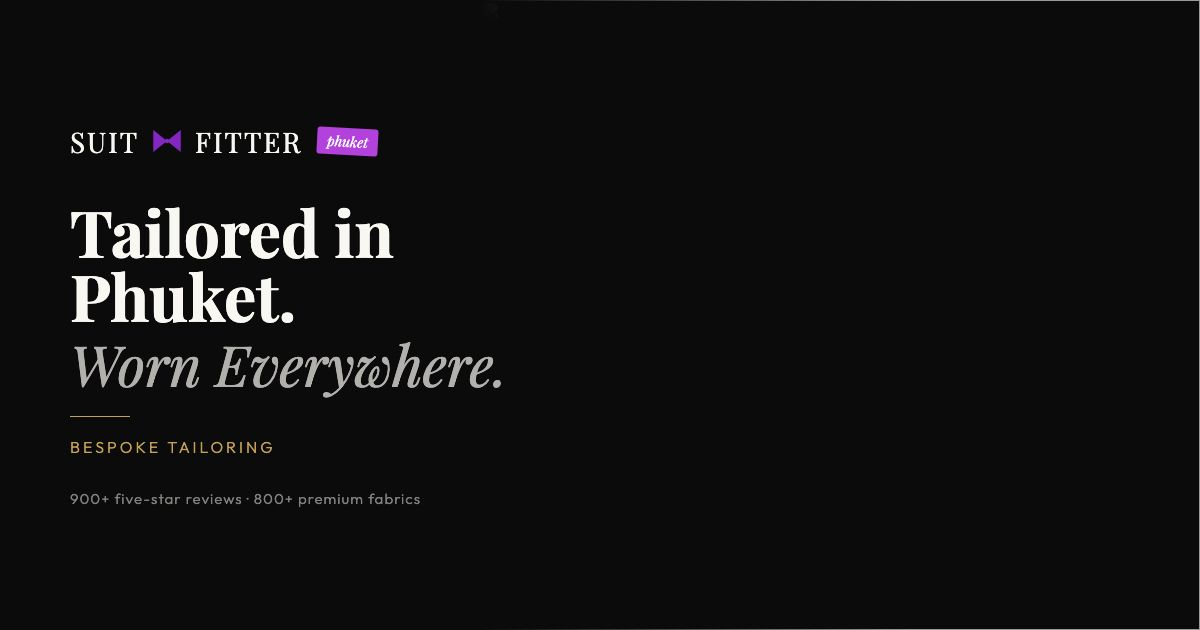
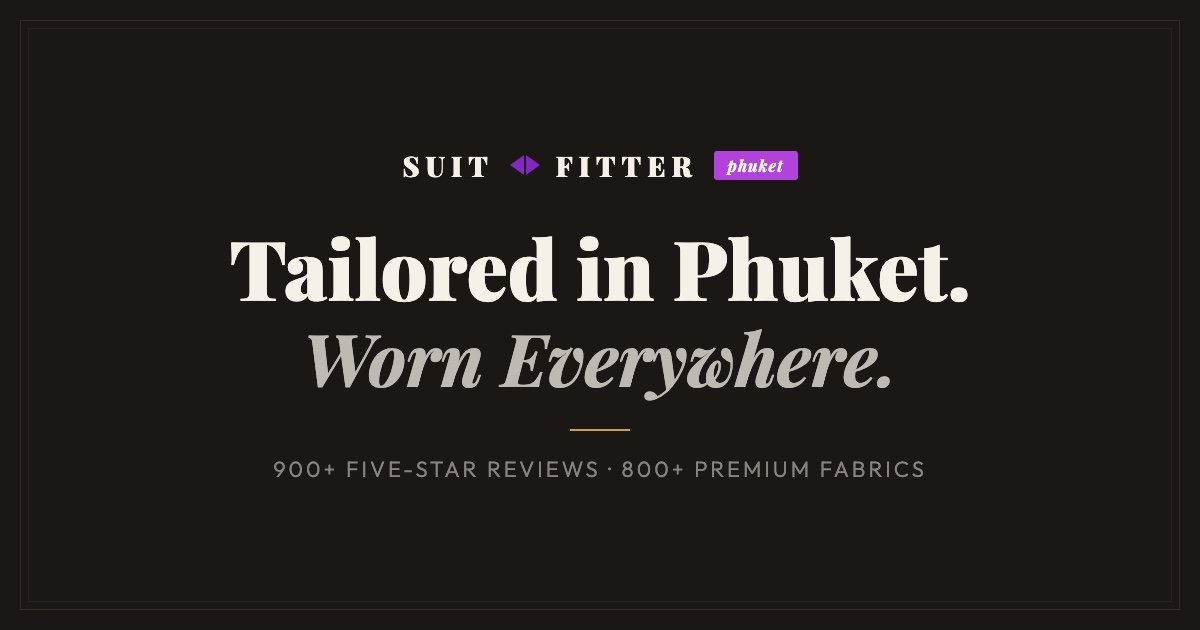
Redesign OG image with larger centered text

diff --git a/app/layout.tsx b/app/layout.tsx
@@ -45,7 +45,7 @@ export const metadata: Metadata = {
     siteName: 'Suit Fitter',
     images: [
       {
-        url: '/og-image.jpg?v=2',
+        url: '/og-image.jpg?v=3',
         width: 1200,
         height: 630,
         alt: 'Suit Fitter - Bespoke Tailoring in Phuket',
@@ -56,7 +56,7 @@ export const metadata: Metadata = {
     card: 'summary_large_image',
     title: 'Suit Fitter | Bespoke Tailoring in Phuket',
     description: 'Tailored in Phuket. Worn Everywhere. 900+ five-star reviews.',
-    images: ['/og-image.jpg?v=2'],
+    images: ['/og-image.jpg?v=3'],
   },
 }
 
